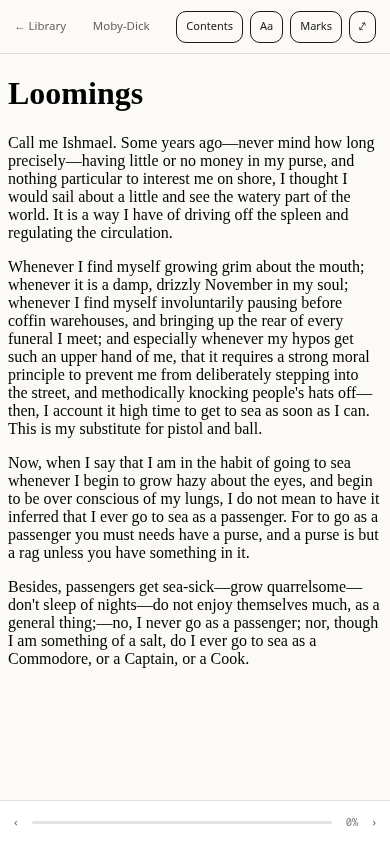
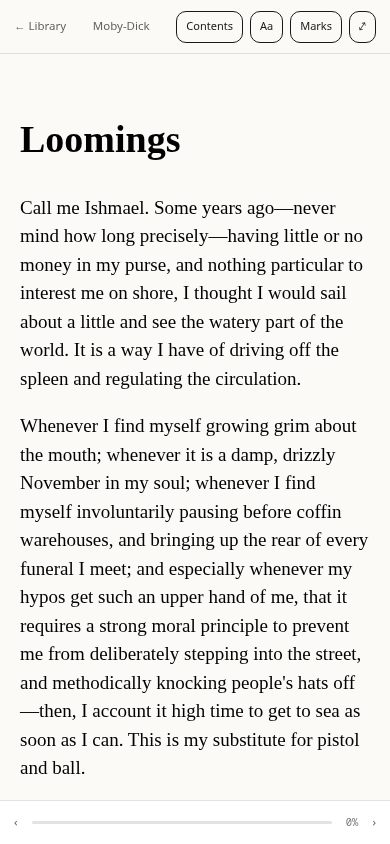
fix: address review of the screenshots and workflow
The sample chapter had no <head>, so the reader could not apply its
typography and the capture looked unstyled; it now renders as the app
does. The capture matches API requests by path prefix instead of a glob,
the tests compare WebP and PNG dimensions and fetch both formats, and
the deploy job is no longer cancelled by a newer push. The README says
the images must be looked at after each capture.

Changed region(s): [[0.0, 0.0924, 0.9846, 0.9242]]

diff --git a/scripts/capture-screenshots.ts b/scripts/capture-screenshots.ts
@@ -31,102 +31,114 @@ const CONTAINER = `<?xml version="1.0"?><container version="1.0" xmlns="urn:oasi
 const book = sample.readerBook
 const OPF = `<?xml version="1.0" encoding="UTF-8"?><package xmlns="http://www.idpf.org/2007/opf" version="3.0" unique-identifier="id"><metadata xmlns:dc="http://purl.org/dc/elements/1.1/"><dc:identifier id="id">urn:sample:${book.title}</dc:identifier><dc:title>${escapeXml(book.title)}</dc:title><dc:language>en</dc:language></metadata><manifest><item id="nav" href="nav.xhtml" media-type="application/xhtml+xml" properties="nav"/><item id="c1" href="chapter1.xhtml" media-type="application/xhtml+xml"/></manifest><spine><itemref idref="c1"/></spine></package>`
 const NAV = `<?xml version="1.0" encoding="UTF-8"?><html xmlns="http://www.w3.org/1999/xhtml" xmlns:epub="http://www.idpf.org/2007/ops"><body><nav epub:type="toc"><ol><li><a href="chapter1.xhtml">${escapeXml(book.chapterTitle)}</a></li></ol></nav></body></html>`
-const CHAPTER = `<?xml version="1.0" encoding="UTF-8"?><html xmlns="http://www.w3.org/1999/xhtml"><body><h1>${escapeXml(book.chapterTitle)}</h1>${book.paragraphs.map((p) => `<p>${escapeXml(p)}</p>`).join('')}</body></html>`
+const CHAPTER = `<?xml version="1.0" encoding="UTF-8"?><html xmlns="http://www.w3.org/1999/xhtml"><head><title>${escapeXml(book.chapterTitle)}</title></head><body><h1>${escapeXml(book.chapterTitle)}</h1>${book.paragraphs.map((p) => `<p>${escapeXml(p)}</p>`).join('')}</body></html>`
 
 const unhandled = new Set<string>()
 
 /** Serves the whole API from the sample library. The app's own mock worker is blocked. */
 async function mockApi(context: BrowserContext): Promise<void> {
-  await context.route('**/api/**', async (route) => {
-    const url = new URL(route.request().url())
-    const path = url.pathname
-    const method = route.request().method()
-    const now = new Date().toISOString()
+  // A predicate, not a glob: `**/api/**` would also catch a source module such as /src/api/x.ts.
+  await context.route(
+    (url) => url.pathname.startsWith('/api/'),
+    async (route) => {
+      const url = new URL(route.request().url())
+      const path = url.pathname
+      const method = route.request().method()
+      const now = new Date().toISOString()
 
-    if (path === '/api/bootstrap') {
-      return json(route, {
-        capabilities: { sources: true, import: true, settings: true, system: true, network: true },
-      })
-    }
-    if (path === '/api/v1/library') {
-      return json(route, {
-        works: sample.works.map((w) => ({
+      if (path === '/api/bootstrap') {
+        return json(route, {
+          capabilities: {
+            sources: true,
+            import: true,
+            settings: true,
+            system: true,
+            network: true,
+          },
+        })
+      }
+      if (path === '/api/v1/library') {
+        return json(route, {
+          works: sample.works.map((w) => ({
+            id: w.id,
+            title: w.title,
+            subtitle: w.subtitle,
+            authors: w.authors,
+            isOwned: true,
+            collections: [{ ...sample.collection, addedAt: w.addedAt }],
+            addedAt: w.addedAt,
+          })),
+          nextCursor: null,
+        })
+      }
+      const work = /^\/api\/v1\/works\/([^/]+)$/.exec(path)
+      if (work) {
+        const w = sample.works.find((x) => x.id === work[1])
+        if (!w) return json(route, { code: 'not_found', message: 'no work with that id' }, 404)
+        return json(route, {
           id: w.id,
           title: w.title,
           subtitle: w.subtitle,
           authors: w.authors,
-          isOwned: true,
+          subjects: ['Fiction'],
+          originalLanguage: 'en',
+          ownedEditions: [
+            { id: w.editionId, language: 'en', addedAt: w.addedAt, formats: ['epub'] },
+          ],
           collections: [{ ...sample.collection, addedAt: w.addedAt }],
-          addedAt: w.addedAt,
-        })),
-        nextCursor: null,
-      })
-    }
-    const work = /^\/api\/v1\/works\/([^/]+)$/.exec(path)
-    if (work) {
-      const w = sample.works.find((x) => x.id === work[1])
-      if (!w) return json(route, { code: 'not_found', message: 'no work with that id' }, 404)
-      return json(route, {
-        id: w.id,
-        title: w.title,
-        subtitle: w.subtitle,
-        authors: w.authors,
-        subjects: ['Fiction'],
-        originalLanguage: 'en',
-        ownedEditions: [{ id: w.editionId, language: 'en', addedAt: w.addedAt, formats: ['epub'] }],
-        collections: [{ ...sample.collection, addedAt: w.addedAt }],
-      })
-    }
-    if (path === '/api/v1/collections') {
-      return json(route, {
-        collections: [{ ...sample.collection, workCount: sample.works.length }],
-      })
-    }
-    if (path.includes('/reader/content/')) {
-      const file = decodeURIComponent(path.split('/reader/content/')[1] ?? '')
-      const bodies: Record<string, string> = {
-        'META-INF/container.xml': CONTAINER,
-        'OEBPS/content.opf': OPF,
-        'OEBPS/nav.xhtml': NAV,
-        'OEBPS/chapter1.xhtml': CHAPTER,
+        })
       }
-      const body = bodies[file]
-      if (body === undefined) return json(route, { code: 'not_found' }, 404)
-      return route.fulfill({ status: 200, contentType: 'application/xhtml+xml', body })
-    }
-    if (path.endsWith('/progress')) return json(route, { progress: null })
-    if (path === '/api/v1/reading/preferences') {
-      return json(route, {
-        preferences: {
-          font: 'serif',
-          fontSize: 19,
-          lineSpacing: 1.5,
-          theme: 'light',
-          layoutMode: 'paginated',
-          columnWidth: 'default',
-        },
-      })
-    }
-    if (path.endsWith('/bookmarks')) return json(route, { bookmarks: [] })
-    if (path.endsWith('/highlights')) return json(route, { highlights: [] })
-    if (path === '/api/v1/auth/setup/status') return json(route, { isSetup: true })
-    if (path === '/api/v1/libraries') {
-      return json(route, {
-        libraries: [
-          {
-            id: '00000000-0000-0000-0000-000000000001',
-            name: 'Sample library',
-            description: '',
-            allowReaderUploads: false,
-            createdAt: now,
-            updatedAt: now,
+      if (path === '/api/v1/collections') {
+        return json(route, {
+          collections: [{ ...sample.collection, workCount: sample.works.length }],
+        })
+      }
+      if (path.includes('/reader/content/')) {
+        const file = decodeURIComponent(path.split('/reader/content/')[1] ?? '')
+        const bodies: Record<string, string> = {
+          'META-INF/container.xml': CONTAINER,
+          'OEBPS/content.opf': OPF,
+          'OEBPS/nav.xhtml': NAV,
+          'OEBPS/chapter1.xhtml': CHAPTER,
+        }
+        const body = bodies[file]
+        if (body === undefined) return json(route, { code: 'not_found' }, 404)
+        return route.fulfill({ status: 200, contentType: 'application/xhtml+xml', body })
+      }
+      if (path.endsWith('/progress')) return json(route, { progress: null })
+      if (path === '/api/v1/reading/preferences') {
+        return json(route, {
+          preferences: {
+            font: 'serif',
+            fontSize: 19,
+            lineSpacing: 1.5,
+            theme: 'light',
+            layoutMode: 'paginated',
+            columnWidth: 'default',
           },
-        ],
-      })
-    }
-    unhandled.add(`${method} ${path}`)
-    return json(route, { code: 'not_found', message: 'not part of the sample library' }, 404)
-  })
+        })
+      }
+      if (path.endsWith('/bookmarks')) return json(route, { bookmarks: [] })
+      if (path.endsWith('/highlights')) return json(route, { highlights: [] })
+      if (path === '/api/v1/auth/setup/status') return json(route, { isSetup: true })
+      if (path === '/api/v1/libraries') {
+        return json(route, {
+          libraries: [
+            {
+              id: '00000000-0000-0000-0000-000000000001',
+              name: 'Sample library',
+              description: '',
+              allowReaderUploads: false,
+              createdAt: now,
+              updatedAt: now,
+            },
+          ],
+        })
+      }
+      unhandled.add(`${method} ${path}`)
+      return json(route, { code: 'not_found', message: 'not part of the sample library' }, 404)
+    },
+  )
 }
 
 const WEBP_QUALITY = 0.86

diff --git a/e2e/runtime.spec.ts b/e2e/runtime.spec.ts
@@ -1,4 +1,5 @@
 import { expect, test } from '@playwright/test'
+import { site } from '../src/content/site.ts'
 
 test('loads with no console errors, page errors, or CSP violations, and hydrates', async ({
   page,
@@ -23,18 +24,31 @@ test('requests nothing from any origin but its own', async ({ page, baseURL }) =
   expect([...origins]).toEqual([new URL(baseURL!).origin])
 })
 
-test('every image loads under the strict policy and is not broken', async ({ page }) => {
+test('every image loads under the strict policy, in WebP and in the PNG fallback', async ({
+  page,
+}) => {
   await page.goto('/')
-  await page.locator('img').last().scrollIntoViewIfNeeded()
-  await page.waitForLoadState('networkidle')
-  const images = await page.locator('img').evaluateAll((els) =>
-    els.map((el) => ({
-      src: (el as HTMLImageElement).currentSrc,
-      width: (el as HTMLImageElement).naturalWidth,
+  const sources = await page.locator('picture').evaluateAll((pictures) =>
+    pictures.map((picture) => ({
+      webp: picture.querySelector('source')!.getAttribute('srcset')!,
+      png: picture.querySelector('img')!.getAttribute('src')!,
     })),
   )
-  expect(images.length).toBe(5)
-  for (const image of images) expect(image.width, image.src).toBeGreaterThan(0)
+  expect(sources.length).toBe(Object.keys(site.screenshots).length + 2) // hero pair + feature reuse
+  for (const { webp, png } of sources) {
+    for (const path of [webp, png]) {
+      const response = await page.request.get(new URL(path, page.url()).href)
+      expect(response.status(), path).toBe(200)
+      expect(response.headers()['content-type'], path).toMatch(/^image\//)
+    }
+  }
+  // And the browser really decoded the ones it chose.
+  await page.locator('img').last().scrollIntoViewIfNeeded()
+  await page.waitForLoadState('networkidle')
+  const widths = await page
+    .locator('img')
+    .evaluateAll((els) => els.map((el) => (el as HTMLImageElement).naturalWidth))
+  for (const width of widths) expect(width).toBeGreaterThan(0)
 })
 
 test('has no inline style attributes, which the policy would block', async ({ page }) => {

diff --git a/scripts/screenshots.test.ts b/scripts/screenshots.test.ts
@@ -14,6 +14,22 @@ function pngSize(path: string): { width: number; height: number } {
   return { width: bytes.readUInt32BE(16), height: bytes.readUInt32BE(20) }
 }
 
+/** Width and height from a WebP file, for the lossy (VP8), lossless (VP8L) and extended (VP8X) forms. */
+function webpSize(bytes: Buffer): { width: number; height: number } {
+  const kind = bytes.subarray(12, 16).toString('latin1')
+  if (kind === 'VP8 ') {
+    return { width: bytes.readUInt16LE(26) & 0x3fff, height: bytes.readUInt16LE(28) & 0x3fff }
+  }
+  if (kind === 'VP8L') {
+    const bits = bytes.readUInt32LE(21)
+    return { width: (bits & 0x3fff) + 1, height: ((bits >> 14) & 0x3fff) + 1 }
+  }
+  if (kind === 'VP8X') {
+    return { width: bytes.readUIntLE(24, 3) + 1, height: bytes.readUIntLE(27, 3) + 1 }
+  }
+  throw new Error(`unrecognised WebP chunk ${kind}`)
+}
+
 describe.each(Object.entries(site.screenshots))('screenshot %s', (_name, shot) => {
   it('exists as both a WebP and a PNG', () => {
     expect(existsSync(fileFor(shot.src, 'webp'))).toBe(true)
@@ -24,10 +40,11 @@ describe.each(Object.entries(site.screenshots))('screenshot %s', (_name, shot) =
     expect(pngSize(fileFor(shot.src, 'png'))).toEqual({ width: shot.width, height: shot.height })
   })
 
-  it('is a real WebP file', () => {
+  it('is a real WebP file with the same dimensions as the PNG fallback', () => {
     const bytes = readFileSync(fileFor(shot.src, 'webp'))
     expect(bytes.subarray(0, 4).toString('latin1')).toBe('RIFF')
     expect(bytes.subarray(8, 12).toString('latin1')).toBe('WEBP')
+    expect(webpSize(bytes)).toEqual({ width: shot.width, height: shot.height })
   })
 
   it('stays small enough not to slow the page', () => {

diff --git a/scripts/README.md b/scripts/README.md
@@ -52,7 +52,11 @@ images. The script prints any API call it does not serve.
 
 ### What the sample contains
 
-`sample-library.json`: the ten public-domain titles drawn on the page, and the
+`sample-library.json`: the ten public-domain titles the library view shows, and the
 opening of _Moby-Dick_ (Herman Melville, 1851) for the reader view. A test
-(`sample-library.test.ts`) checks the titles match the page's drawn covers. No
+(`sample-library.test.ts`) holds the titles to a public-domain allowlist. No
 real person's library, paths, or data appear.
+
+The tests check the files and their sizes, not what the pixels show. After each
+capture, open all three images and look: only the ten titles above, only the
+Moby-Dick opening, nothing else on screen. That check is part of the task.
